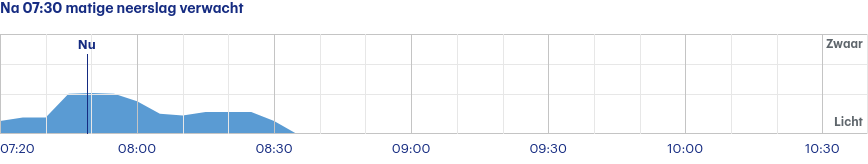
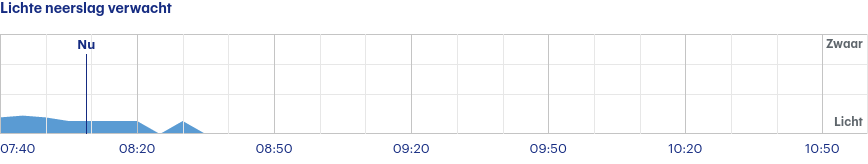
Latest scraping buienradar: Thu Jun 22 06:00:25 UTC 2023

diff --git a/scrapes/buienradar/buienradar-jette-3-uur.md b/scrapes/buienradar/buienradar-jette-3-uur.md
@@ -1,4 +1,4 @@
-Na 07:30 matige neerslag verwacht
+Lichte neerslag verwacht
 
 ![](buienradar-jette-3-uur.png)
 
